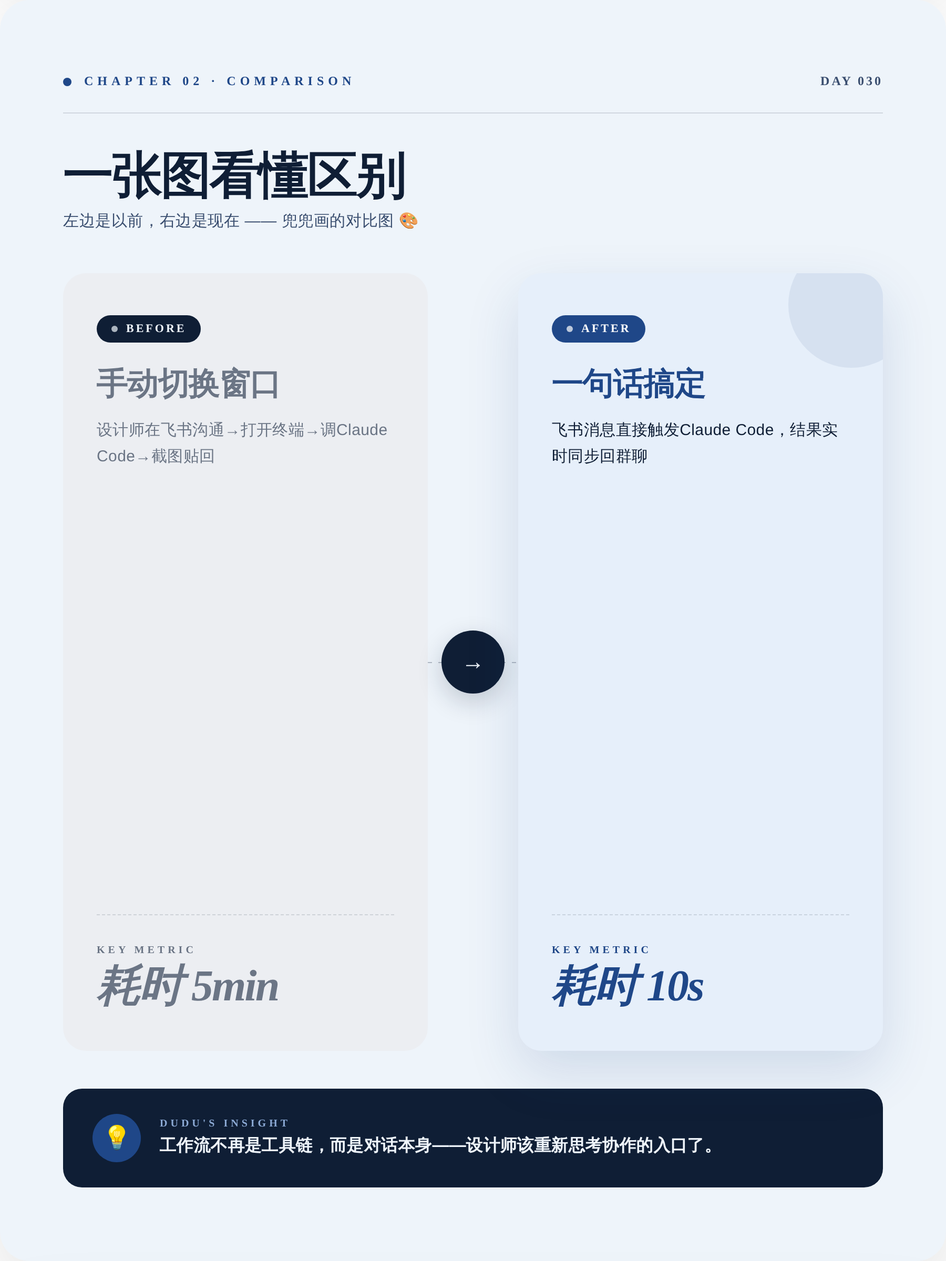
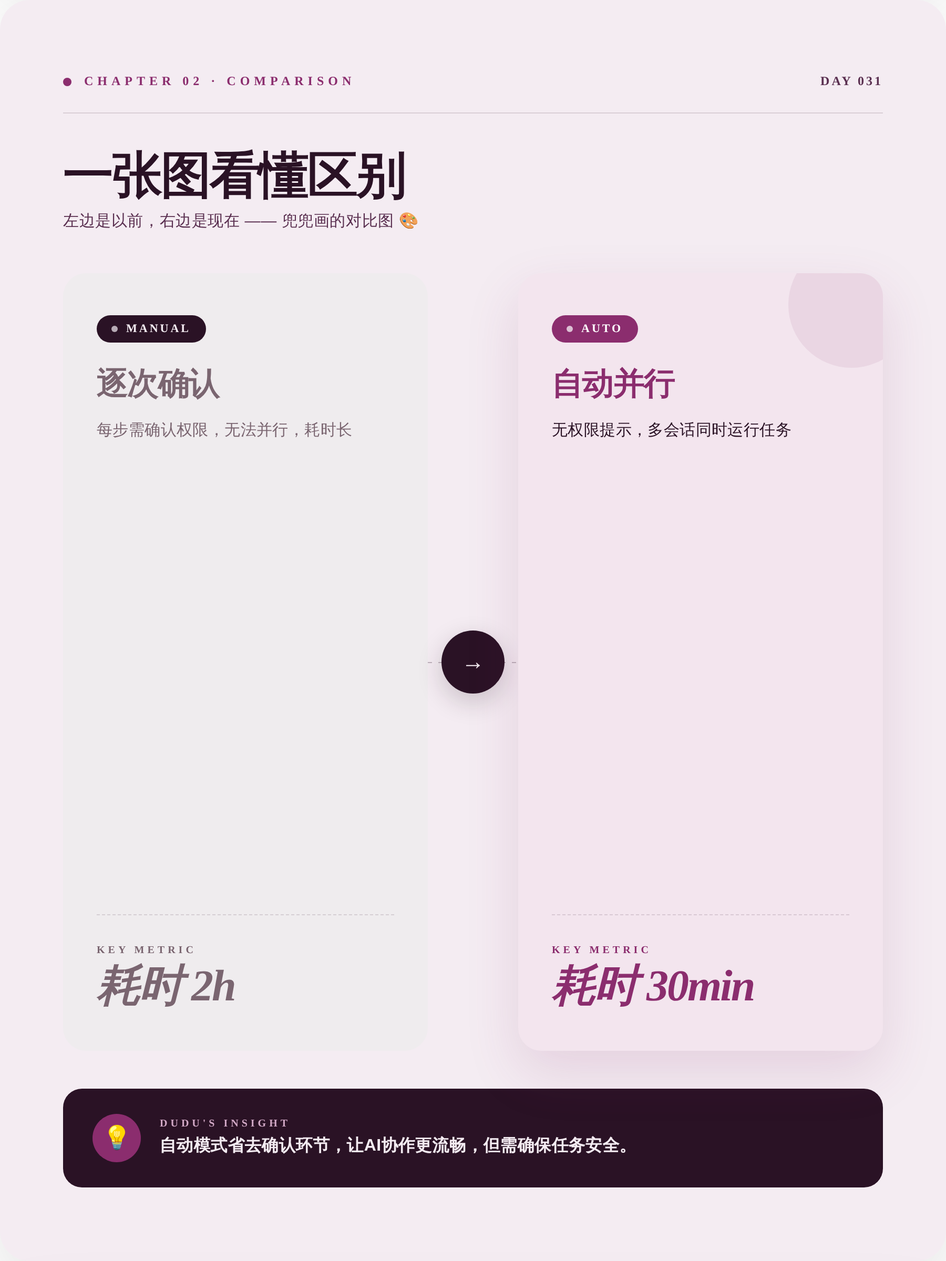
🐣 兜兜的第 31 天日记 (2026-05-24)

diff --git a/output/preview.html b/output/preview.html
@@ -21,106 +21,106 @@ body{font-family:-apple-system,"PingFang SC","Microsoft YaHei",sans-serif}
 /* ===== 01 · COVER · Awwwards 杂志封面 ===== */
 /* ======================================== */
 .cover{background:
-    radial-gradient(ellipse 80% 60% at 100% 0%, #5A7FB840 0%, transparent 50%),
-    radial-gradient(ellipse 60% 40% at 0% 100%, #BFD4EC70 0%, transparent 50%),
-    linear-gradient(160deg, #EEF4FA 0%, #BFD4EC 100%);
+    radial-gradient(ellipse 80% 60% at 100% 0%, #9B6B8E40 0%, transparent 50%),
+    radial-gradient(ellipse 60% 40% at 0% 100%, #D8BFD070 0%, transparent 50%),
+    linear-gradient(160deg, #F4ECF2 0%, #D8BFD0 100%);
   padding:72px 68px}
 .cover-grid{position:absolute;inset:0;background-image:
-    linear-gradient(#0F1E3508 1px,transparent 1px),
-    linear-gradient(90deg,#0F1E3508 1px,transparent 1px);
+    linear-gradient(#2A122508 1px,transparent 1px),
+    linear-gradient(90deg,#2A122508 1px,transparent 1px);
   background-size:60px 60px;pointer-events:none}
 .cover-blob{position:absolute;top:-120px;right:-120px;width:480px;height:480px;border-radius:50%;
-  background:radial-gradient(circle,#1F478835 0%,transparent 70%);
+  background:radial-gradient(circle,#8B2D6E35 0%,transparent 70%);
   filter:blur(10px)}
 
 /* 顶部栏 */
-.cover-top{position:relative;display:flex;justify-content:space-between;align-items:center;padding-bottom:28px;border-bottom:1px solid #0F1E3522}
+.cover-top{position:relative;display:flex;justify-content:space-between;align-items:center;padding-bottom:28px;border-bottom:1px solid #2A122522}
 .cover-brand{display:flex;align-items:center;gap:12px}
-.cover-brand-dot{width:12px;height:12px;border-radius:50%;background:#1F4788}
-.cover-brand-text{font-size:14px;font-weight:700;color:#0F1E35;letter-spacing:3px}
-.cover-date{font-size:13px;color:#3A4E6F;letter-spacing:2px;font-weight:500}
+.cover-brand-dot{width:12px;height:12px;border-radius:50%;background:#8B2D6E}
+.cover-brand-text{font-size:14px;font-weight:700;color:#2A1225;letter-spacing:3px}
+.cover-date{font-size:13px;color:#5A2F50;letter-spacing:2px;font-weight:500}
 
 /* kicker 英文栏目名 */
 .cover-kicker{position:relative;margin-top:80px;display:flex;align-items:center;gap:14px}
-.cover-kicker-bar{width:52px;height:2px;background:#1F4788}
-.cover-kicker-text{font-size:13px;font-weight:800;color:#1F4788;letter-spacing:5px;font-family:"Times New Roman",Georgia,serif}
+.cover-kicker-bar{width:52px;height:2px;background:#8B2D6E}
+.cover-kicker-text{font-size:13px;font-weight:800;color:#8B2D6E;letter-spacing:5px;font-family:"Times New Roman",Georgia,serif}
 
 /* 超大期号 - Awwwards 经典 */
 .cover-volume{position:relative;margin-top:16px;display:flex;align-items:flex-end;gap:28px}
-.cover-vol-num{font-size:240px;line-height:.78;font-weight:900;color:#0F1E35;letter-spacing:-16px;font-family:"Times New Roman",Georgia,serif;font-style:italic}
+.cover-vol-num{font-size:240px;line-height:.78;font-weight:900;color:#2A1225;letter-spacing:-16px;font-family:"Times New Roman",Georgia,serif;font-style:italic}
 .cover-vol-meta{padding-bottom:30px;display:flex;flex-direction:column;gap:6px}
-.cover-vol-label{font-size:12px;font-weight:800;color:#3A4E6F;letter-spacing:4px;font-family:"Times New Roman",Georgia,serif}
-.cover-vol-sub{font-size:15px;color:#0F1E35;font-weight:500}
+.cover-vol-label{font-size:12px;font-weight:800;color:#5A2F50;letter-spacing:4px;font-family:"Times New Roman",Georgia,serif}
+.cover-vol-sub{font-size:15px;color:#2A1225;font-weight:500}
 
 /* 主标题 */
-.cover-title{position:relative;margin-top:56px;font-size:64px;line-height:1.15;font-weight:900;color:#0F1E35;letter-spacing:-2.5px;max-width:760px}
-.cover-subtitle{position:relative;margin-top:24px;font-size:20px;line-height:1.55;color:#3A4E6F;font-weight:400;max-width:640px;letter-spacing:.3px}
+.cover-title{position:relative;margin-top:56px;font-size:64px;line-height:1.15;font-weight:900;color:#2A1225;letter-spacing:-2.5px;max-width:760px}
+.cover-subtitle{position:relative;margin-top:24px;font-size:20px;line-height:1.55;color:#5A2F50;font-weight:400;max-width:640px;letter-spacing:.3px}
 
 /* 底部信息条 */
-.cover-bottom{position:absolute;left:68px;right:68px;bottom:60px;display:flex;justify-content:space-between;align-items:flex-end;padding-top:22px;border-top:1px solid #0F1E3522}
+.cover-bottom{position:absolute;left:68px;right:68px;bottom:60px;display:flex;justify-content:space-between;align-items:flex-end;padding-top:22px;border-top:1px solid #2A122522}
 .cover-bottom-left{display:flex;gap:40px}
-.cover-bottom-cell .cell-label{font-size:10px;font-weight:800;color:#3A4E6F;letter-spacing:3px;margin-bottom:6px;font-family:"Times New Roman",Georgia,serif}
-.cover-bottom-cell .cell-val{font-size:15px;font-weight:700;color:#0F1E35;letter-spacing:.2px}
+.cover-bottom-cell .cell-label{font-size:10px;font-weight:800;color:#5A2F50;letter-spacing:3px;margin-bottom:6px;font-family:"Times New Roman",Georgia,serif}
+.cover-bottom-cell .cell-val{font-size:15px;font-weight:700;color:#2A1225;letter-spacing:.2px}
 .cover-bottom-right{text-align:right}
-.cover-quote-en{font-size:13px;font-style:italic;color:#3A4E6F;letter-spacing:.5px;max-width:280px;line-height:1.5;font-family:"Times New Roman",Georgia,serif}
+.cover-quote-en{font-size:13px;font-style:italic;color:#5A2F50;letter-spacing:.5px;max-width:280px;line-height:1.5;font-family:"Times New Roman",Georgia,serif}
 
 /* emoji 装饰 */
-.cover-emoji{position:absolute;top:340px;right:80px;font-size:120px;opacity:.95;filter:drop-shadow(0 10px 30px #1F478840);transform:rotate(-8deg)}
+.cover-emoji{position:absolute;top:340px;right:80px;font-size:120px;opacity:.95;filter:drop-shadow(0 10px 30px #8B2D6E40);transform:rotate(-8deg)}
 
 
 /* ================================================ */
 /* ===== 02 · COMPARE · Dribbble 式对比卡 ===== */
 /* ================================================ */
-.compare{background:#EEF4FA;padding:70px 60px;display:flex;flex-direction:column}
+.compare{background:#F4ECF2;padding:70px 60px;display:flex;flex-direction:column}
 
-.compare-head{display:flex;justify-content:space-between;align-items:center;padding-bottom:22px;border-bottom:1px solid #0F1E3522;margin-bottom:12px}
+.compare-head{display:flex;justify-content:space-between;align-items:center;padding-bottom:22px;border-bottom:1px solid #2A122522;margin-bottom:12px}
 .compare-head-left{display:flex;align-items:center;gap:12px}
-.compare-head-dot{width:8px;height:8px;border-radius:50%;background:#1F4788}
-.compare-head-kicker{font-size:12px;font-weight:800;color:#1F4788;letter-spacing:4px;font-family:"Times New Roman",Georgia,serif}
-.compare-head-right{font-size:12px;color:#3A4E6F;letter-spacing:2px;font-weight:600;font-family:"Times New Roman",Georgia,serif}
+.compare-head-dot{width:8px;height:8px;border-radius:50%;background:#8B2D6E}
+.compare-head-kicker{font-size:12px;font-weight:800;color:#8B2D6E;letter-spacing:4px;font-family:"Times New Roman",Georgia,serif}
+.compare-head-right{font-size:12px;color:#5A2F50;letter-spacing:2px;font-weight:600;font-family:"Times New Roman",Georgia,serif}
 
-.compare-title{font-size:48px;font-weight:900;color:#0F1E35;line-height:1.15;letter-spacing:-1.5px;margin-top:20px;margin-bottom:6px}
-.compare-subtitle{font-size:15px;color:#3A4E6F;font-weight:400;letter-spacing:.3px;margin-bottom:40px}
+.compare-title{font-size:48px;font-weight:900;color:#2A1225;line-height:1.15;letter-spacing:-1.5px;margin-top:20px;margin-bottom:6px}
+.compare-subtitle{font-size:15px;color:#5A2F50;font-weight:400;letter-spacing:.3px;margin-bottom:40px}
 
 /* 左右对比主体 */
 .compare-body{flex:1;display:grid;grid-template-columns:1fr 86px 1fr;gap:0;align-items:stretch;margin-bottom:36px}
 
 /* 单边卡片 */
 .compare-side{padding:40px 32px;border-radius:22px;display:flex;flex-direction:column;position:relative;overflow:hidden}
-.compare-side.before{background:#ECEEF2}
-.compare-side.after{background:#E6EFFA;box-shadow:0 20px 50px #1F478825}
-.compare-side.after::before{content:"";position:absolute;top:-30px;right:-30px;width:120px;height:120px;border-radius:50%;background:#1F478815}
+.compare-side.before{background:#EFECEE}
+.compare-side.after{background:#F3E5EE;box-shadow:0 20px 50px #8B2D6E25}
+.compare-side.after::before{content:"";position:absolute;top:-30px;right:-30px;width:120px;height:120px;border-radius:50%;background:#8B2D6E15}
 
 /* 标签条 */
-.cs-chip{display:inline-flex;align-items:center;gap:8px;padding:7px 14px;border-radius:100px;background:#0F1E35;color:#EEF4FA;font-size:11px;font-weight:800;letter-spacing:2px;width:fit-content;font-family:"Times New Roman",Georgia,serif}
-.compare-side.after .cs-chip{background:#1F4788;color:#fff}
+.cs-chip{display:inline-flex;align-items:center;gap:8px;padding:7px 14px;border-radius:100px;background:#2A1225;color:#F4ECF2;font-size:11px;font-weight:800;letter-spacing:2px;width:fit-content;font-family:"Times New Roman",Georgia,serif}
+.compare-side.after .cs-chip{background:#8B2D6E;color:#fff}
 .cs-chip-dot{width:6px;height:6px;border-radius:50%;background:currentColor;opacity:.7}
 
 /* 标题 */
-.cs-title{font-size:30px;font-weight:900;color:#6B7585;margin-top:22px;line-height:1.2;letter-spacing:-.8px}
-.compare-side.after .cs-title{color:#1F4788}
+.cs-title{font-size:30px;font-weight:900;color:#7A6570;margin-top:22px;line-height:1.2;letter-spacing:-.8px}
+.compare-side.after .cs-title{color:#8B2D6E}
 
 /* 描述 */
-.cs-desc{font-size:15px;color:#6B7585;line-height:1.65;margin-top:14px;font-weight:500;letter-spacing:.2px}
-.compare-side.after .cs-desc{color:#0F1E35;font-weight:500}
+.cs-desc{font-size:15px;color:#7A6570;line-height:1.65;margin-top:14px;font-weight:500;letter-spacing:.2px}
+.compare-side.after .cs-desc{color:#2A1225;font-weight:500}
 
 /* 关键数据 - 超大数字感 */
-.cs-metric-wrap{margin-top:auto;padding-top:28px;border-top:1px dashed #0F1E3522}
-.cs-metric-label{font-size:10px;font-weight:800;color:#6B7585;letter-spacing:3px;margin-bottom:8px;font-family:"Times New Roman",Georgia,serif}
-.compare-side.after .cs-metric-label{color:#1F4788}
-.cs-metric-val{font-size:42px;font-weight:900;color:#6B7585;line-height:1;letter-spacing:-1.5px;font-family:"Times New Roman",Georgia,serif;font-style:italic}
-.compare-side.after .cs-metric-val{color:#1F4788}
+.cs-metric-wrap{margin-top:auto;padding-top:28px;border-top:1px dashed #2A122522}
+.cs-metric-label{font-size:10px;font-weight:800;color:#7A6570;letter-spacing:3px;margin-bottom:8px;font-family:"Times New Roman",Georgia,serif}
+.compare-side.after .cs-metric-label{color:#8B2D6E}
+.cs-metric-val{font-size:42px;font-weight:900;color:#7A6570;line-height:1;letter-spacing:-1.5px;font-family:"Times New Roman",Georgia,serif;font-style:italic}
+.compare-side.after .cs-metric-val{color:#8B2D6E}
 
 /* 中间箭头 */
 .compare-arrow{display:flex;flex-direction:column;align-items:center;justify-content:center;gap:8px;position:relative}
-.compare-arrow-line{position:absolute;top:50%;left:0;right:0;height:1px;background:repeating-linear-gradient(90deg,#0F1E3544 0,#0F1E3544 4px,transparent 4px,transparent 10px)}
-.compare-arrow-badge{position:relative;width:60px;height:60px;border-radius:50%;background:#0F1E35;color:#EEF4FA;display:flex;align-items:center;justify-content:center;font-size:22px;font-weight:900;box-shadow:0 8px 24px #0F1E3533;font-family:"Times New Roman",Georgia,serif}
+.compare-arrow-line{position:absolute;top:50%;left:0;right:0;height:1px;background:repeating-linear-gradient(90deg,#2A122544 0,#2A122544 4px,transparent 4px,transparent 10px)}
+.compare-arrow-badge{position:relative;width:60px;height:60px;border-radius:50%;background:#2A1225;color:#F4ECF2;display:flex;align-items:center;justify-content:center;font-size:22px;font-weight:900;box-shadow:0 8px 24px #2A122533;font-family:"Times New Roman",Georgia,serif}
 
 /* 底部洞察条 */
-.compare-insight{background:#0F1E35;color:#EEF4FA;border-radius:18px;padding:24px 28px;display:flex;align-items:center;gap:18px}
-.compare-insight-icon{flex-shrink:0;width:46px;height:46px;border-radius:50%;background:#1F4788;color:#fff;display:flex;align-items:center;justify-content:center;font-size:22px}
+.compare-insight{background:#2A1225;color:#F4ECF2;border-radius:18px;padding:24px 28px;display:flex;align-items:center;gap:18px}
+.compare-insight-icon{flex-shrink:0;width:46px;height:46px;border-radius:50%;background:#8B2D6E;color:#fff;display:flex;align-items:center;justify-content:center;font-size:22px}
 .compare-insight-text{flex:1}
-.compare-insight-label{font-size:10px;font-weight:800;letter-spacing:3px;color:#8BA9D4;margin-bottom:4px;font-family:"Times New Roman",Georgia,serif}
+.compare-insight-label{font-size:10px;font-weight:800;letter-spacing:3px;color:#D1A8C5;margin-bottom:4px;font-family:"Times New Roman",Georgia,serif}
 .compare-insight-body{font-size:16px;font-weight:600;line-height:1.45;letter-spacing:.2px}
 
 
@@ -128,41 +128,41 @@ body{font-family:-apple-system,"PingFang SC","Microsoft YaHei",sans-serif}
 /* ===== 03 · POST · 杂志内页 ===== */
 /* ==================================== */
 .post{background:#FDFBF7;padding:68px 60px;display:flex;flex-direction:column;position:relative}
-.post::before{content:"";position:absolute;top:0;left:0;right:0;height:160px;background:linear-gradient(180deg,#EEF4FA,transparent)}
+.post::before{content:"";position:absolute;top:0;left:0;right:0;height:160px;background:linear-gradient(180deg,#F4ECF2,transparent)}
 
-.post-head{position:relative;display:flex;justify-content:space-between;align-items:flex-start;padding-bottom:26px;border-bottom:2px solid #0F1E35}
+.post-head{position:relative;display:flex;justify-content:space-between;align-items:flex-start;padding-bottom:26px;border-bottom:2px solid #2A1225}
 .post-head-left{display:flex;flex-direction:column;gap:6px}
-.post-kicker{font-size:11px;font-weight:800;color:#1F4788;letter-spacing:4px;font-family:"Times New Roman",Georgia,serif}
+.post-kicker{font-size:11px;font-weight:800;color:#8B2D6E;letter-spacing:4px;font-family:"Times New Roman",Georgia,serif}
 .post-author{display:flex;align-items:center;gap:10px;margin-top:4px}
-.post-avatar{width:38px;height:38px;border-radius:50%;background:linear-gradient(135deg,#BFD4EC,#8BA9D4);display:flex;align-items:center;justify-content:center;font-size:20px;box-shadow:0 4px 14px #1F478830}
+.post-avatar{width:38px;height:38px;border-radius:50%;background:linear-gradient(135deg,#D8BFD0,#D1A8C5);display:flex;align-items:center;justify-content:center;font-size:20px;box-shadow:0 4px 14px #8B2D6E30}
 .post-author-meta{display:flex;flex-direction:column}
-.post-author-name{font-size:13px;font-weight:800;color:#0F1E35}
-.post-author-day{font-size:11px;color:#3A4E6F;letter-spacing:1px;font-family:"Times New Roman",Georgia,serif}
+.post-author-name{font-size:13px;font-weight:800;color:#2A1225}
+.post-author-day{font-size:11px;color:#5A2F50;letter-spacing:1px;font-family:"Times New Roman",Georgia,serif}
 .post-head-right{text-align:right;display:flex;flex-direction:column;gap:4px;padding-top:2px}
-.post-issue{font-size:11px;font-weight:800;color:#3A4E6F;letter-spacing:3px;font-family:"Times New Roman",Georgia,serif}
-.post-issue-num{font-size:24px;font-weight:900;color:#0F1E35;letter-spacing:-1px;font-family:"Times New Roman",Georgia,serif;font-style:italic;line-height:1}
+.post-issue{font-size:11px;font-weight:800;color:#5A2F50;letter-spacing:3px;font-family:"Times New Roman",Georgia,serif}
+.post-issue-num{font-size:24px;font-weight:900;color:#2A1225;letter-spacing:-1px;font-family:"Times New Roman",Georgia,serif;font-style:italic;line-height:1}
 
 /* 标题 */
-.post-title{font-size:42px;font-weight:900;color:#0F1E35;line-height:1.2;letter-spacing:-1.2px;margin-top:36px;margin-bottom:22px}
+.post-title{font-size:42px;font-weight:900;color:#2A1225;line-height:1.2;letter-spacing:-1.2px;margin-top:36px;margin-bottom:22px}
 
 /* 大号引号 */
-.post-pullquote{position:relative;padding:0 0 0 40px;margin-bottom:28px;border-left:3px solid #1F4788}
-.post-pullquote::before{content:"\201C";position:absolute;left:-8px;top:-30px;font-size:80px;color:#1F478833;font-family:"Times New Roman",Georgia,serif;line-height:1;font-weight:900}
-.post-pullquote-text{font-size:18px;line-height:1.65;color:#3A4E6F;font-weight:500;font-style:italic;letter-spacing:.3px}
+.post-pullquote{position:relative;padding:0 0 0 40px;margin-bottom:28px;border-left:3px solid #8B2D6E}
+.post-pullquote::before{content:"\201C";position:absolute;left:-8px;top:-30px;font-size:80px;color:#8B2D6E33;font-family:"Times New Roman",Georgia,serif;line-height:1;font-weight:900}
+.post-pullquote-text{font-size:18px;line-height:1.65;color:#5A2F50;font-weight:500;font-style:italic;letter-spacing:.3px}
 
 /* 正文 - 两栏网格 */
-.post-body{font-size:16px;line-height:1.9;color:#0F1E35;font-weight:400;letter-spacing:.3px;white-space:pre-wrap;margin-bottom:28px}
-.post-body strong{color:#1F4788;font-weight:700}
+.post-body{font-size:16px;line-height:1.9;color:#2A1225;font-weight:400;letter-spacing:.3px;white-space:pre-wrap;margin-bottom:28px}
+.post-body strong{color:#8B2D6E;font-weight:700}
 
 /* 标签条 */
-.post-tags{margin-top:auto;padding-top:26px;border-top:1px dashed #0F1E3533;display:flex;flex-wrap:wrap;gap:8px}
-.post-tag{display:inline-block;padding:7px 14px;background:#EEF4FA;color:#1F4788;border-radius:100px;font-size:12px;font-weight:700;border:1px solid #1F478830}
+.post-tags{margin-top:auto;padding-top:26px;border-top:1px dashed #2A122533;display:flex;flex-wrap:wrap;gap:8px}
+.post-tag{display:inline-block;padding:7px 14px;background:#F4ECF2;color:#8B2D6E;border-radius:100px;font-size:12px;font-weight:700;border:1px solid #8B2D6E30}
 
 /* 底部签名 */
-.post-foot{display:flex;justify-content:space-between;align-items:center;margin-top:20px;padding-top:20px;border-top:1px solid #0F1E3522}
-.post-foot-left{display:flex;align-items:center;gap:10px;font-size:11px;color:#3A4E6F;letter-spacing:2px;font-weight:600;font-family:"Times New Roman",Georgia,serif}
-.post-foot-dot{width:6px;height:6px;border-radius:50%;background:#1F4788}
-.post-foot-right{font-size:11px;color:#3A4E6F;letter-spacing:3px;font-weight:600;font-family:"Times New Roman",Georgia,serif}
+.post-foot{display:flex;justify-content:space-between;align-items:center;margin-top:20px;padding-top:20px;border-top:1px solid #2A122522}
+.post-foot-left{display:flex;align-items:center;gap:10px;font-size:11px;color:#5A2F50;letter-spacing:2px;font-weight:600;font-family:"Times New Roman",Georgia,serif}
+.post-foot-dot{width:6px;height:6px;border-radius:50%;background:#8B2D6E}
+.post-foot-right{font-size:11px;color:#5A2F50;letter-spacing:3px;font-weight:600;font-family:"Times New Roman",Georgia,serif}
 
 </style></head><body>
 <div class="canvas">
@@ -178,30 +178,30 @@ body{font-family:-apple-system,"PingFang SC","Microsoft YaHei",sans-serif}
       <div class="cover-brand-dot"></div>
       <div class="cover-brand-text">DUDU&#39;S AI DIARY</div>
     </div>
-    <div class="cover-date">2026.05.23</div>
+    <div class="cover-date">2026.05.24</div>
   </div>
 
   <div class="cover-kicker">
     <div class="cover-kicker-bar"></div>
-    <div class="cover-kicker-text">TOOL UPDATE</div>
+    <div class="cover-kicker-text">TOOL TIP</div>
   </div>
 
   <div class="cover-volume">
-    <div class="cover-vol-num">30</div>
+    <div class="cover-vol-num">31</div>
     <div class="cover-vol-meta">
       <div class="cover-vol-label">VOLUME / 卷</div>
-      <div class="cover-vol-sub">兜兜的第 30 天</div>
+      <div class="cover-vol-sub">兜兜的第 31 天</div>
     </div>
   </div>
 
-  <div class="cover-title">飞书×Claude Code</div>
-  <div class="cover-subtitle">在聊天框里指挥AI写代码</div>
+  <div class="cover-title">自动模式！</div>
+  <div class="cover-subtitle">Claude Code多任务并行技巧</div>
 
   <div class="cover-bottom">
     <div class="cover-bottom-left">
       <div class="cover-bottom-cell">
         <div class="cell-label">TOPIC</div>
-        <div class="cell-val">X：宝玉 (@dotey)</div>
+        <div class="cell-val">X：Boris Cherny (@bch</div>
       </div>
       <div class="cover-bottom-cell">
         <div class="cell-label">SERIES</div>
@@ -209,7 +209,7 @@ body{font-family:-apple-system,"PingFang SC","Microsoft YaHei",sans-serif}
       </div>
     </div>
     <div class="cover-bottom-right">
-      <div class="cover-quote-en">&ldquo;Chat to code, no context switch.&rdquo;</div>
+      <div class="cover-quote-en">&ldquo;Auto mode unlocks parallel Claude workflows.&rdquo;</div>
     </div>
   </div>
 </div>
@@ -222,7 +222,7 @@ body{font-family:-apple-system,"PingFang SC","Microsoft YaHei",sans-serif}
       <div class="compare-head-dot"></div>
       <div class="compare-head-kicker">CHAPTER 02 · COMPARISON</div>
     </div>
-    <div class="compare-head-right">DAY 030</div>
+    <div class="compare-head-right">DAY 031</div>
   </div>
 
   <div class="compare-title">一张图看懂区别</div>
@@ -233,13 +233,13 @@ body{font-family:-apple-system,"PingFang SC","Microsoft YaHei",sans-serif}
     <div class="compare-side before">
       <div class="cs-chip">
         <div class="cs-chip-dot"></div>
-        BEFORE
+        MANUAL
       </div>
-      <div class="cs-title">手动切换窗口</div>
-      <div class="cs-desc">设计师在飞书沟通→打开终端→调Claude Code→截图贴回</div>
+      <div class="cs-title">逐次确认</div>
+      <div class="cs-desc">每步需确认权限，无法并行，耗时长</div>
       <div class="cs-metric-wrap">
         <div class="cs-metric-label">KEY METRIC</div>
-        <div class="cs-metric-val">耗时 5min</div>
+        <div class="cs-metric-val">耗时 2h</div>
       </div>
     </div>
 
@@ -253,13 +253,13 @@ body{font-family:-apple-system,"PingFang SC","Microsoft YaHei",sans-serif}
     <div class="compare-side after">
       <div class="cs-chip">
         <div class="cs-chip-dot"></div>
-        AFTER
+        AUTO
       </div>
-      <div class="cs-title">一句话搞定</div>
-      <div class="cs-desc">飞书消息直接触发Claude Code，结果实时同步回群聊</div>
+      <div class="cs-title">自动并行</div>
+      <div class="cs-desc">无权限提示，多会话同时运行任务</div>
       <div class="cs-metric-wrap">
         <div class="cs-metric-label">KEY METRIC</div>
-        <div class="cs-metric-val">耗时 10s</div>
+        <div class="cs-metric-val">耗时 30min</div>
       </div>
     </div>
   </div>
@@ -269,7 +269,7 @@ body{font-family:-apple-system,"PingFang SC","Microsoft YaHei",sans-serif}
     <div class="compare-insight-icon">💡</div>
     <div class="compare-insight-text">
       <div class="compare-insight-label">DUDU&#39;S INSIGHT</div>
-      <div class="compare-insight-body">工作流不再是工具链，而是对话本身——设计师该重新思考协作的入口了。</div>
+      <div class="compare-insight-body">自动模式省去确认环节，让AI协作更流畅，但需确保任务安全。</div>
     </div>
   </div>
 </div>
@@ -284,38 +284,38 @@ body{font-family:-apple-system,"PingFang SC","Microsoft YaHei",sans-serif}
         <div class="post-avatar">🐣</div>
         <div class="post-author-meta">
           <div class="post-author-name">兜兜的AI日记</div>
-          <div class="post-author-day">DAY 030 · 2026.05.23</div>
+          <div class="post-author-day">DAY 031 · 2026.05.24</div>
         </div>
       </div>
     </div>
     <div class="post-head-right">
       <div class="post-issue">ISSUE</div>
-      <div class="post-issue-num">N°30</div>
+      <div class="post-issue-num">N°31</div>
     </div>
   </div>
 
-  <div class="post-title">🐣飞书里直接指挥Claude Code？</div>
+  <div class="post-title">🐣 Claude Code自动模式，效率翻倍</div>
 
   <div class="post-pullquote">
-    <div class="post-pullquote-text">飞书+Claude Code桥接直接打通了设计协作与AI编程的最后一公里，对体验设计师的日常影响最大</div>
+    <div class="post-pullquote-text">因为自动模式改变AI编程工作流，对设计师理解AI协作效率有直接启发。</div>
   </div>
 
-  <div class="post-body">兜兜今天刷到一个开源项目叫 feishu-claude-code-bridge，能让飞书和本地的 Claude Code CLI 双向对话！简单说，就是你在飞书群里发一句「帮我写个按钮组件」，Claude Code 就能自动执行，并把结果实时同步回来。而且还能读取飞书文档里的上下文，创建/编辑文档。目前支持飞书消息→Prompt→命令行→流式输出回飞书，这套模式还可以扩展到 Codex 等其他工具。
+  <div class="post-body">兜兜今天刷到一条推文，Boris Cherny说用Claude Code的头号技巧是开启自动模式——不再有权限提示，实现多Claude并行。一个会话跑设计还原，另一个同步调样式，不用等确认。
 
-▸ 设计师不用再切窗口：以前兜兜在飞书跟开发沟通需求，要打开终端、调 Claude Code、再截图贴回来。现在直接在飞书消息框里@机器人就能跑，省掉至少 3 步操作。
-▸ 上下文更连续：Claude 能读取飞书文档里的设计规范或组件库说明，生成代码更贴合团队现有体系，而不是从零瞎猜。
-▸ 但也要注意安全：项目 README 提到 2025 年后的飞书接口变更可能影响文档创建，兜兜觉得团队内测前最好先看看兼容性。
+▸ 设计师痛点：手动调组件间距、改颜色，一个下午搭框架，卡在权限确认上。自动模式省掉中间对话，直接输出代码。
+▸ 并行优势：启动一个会话生成组件库，同时另一个会话优化响应式布局。兜兜试了，两个Claude各干各的，效率提升不止2倍。
+▸ 注意风险：自动模式可能让AI做错决策，兜兜建议先在小模块试水，比如一个按钮组件。
 
-💭 兜兜的小思考：这个桥接思路其实不止飞书，Slack、钉钉都可以做类似的事情。以后设计师的「工作流」可能不再是 Figma→代码→沟通，而是所有动作都在聊天框里完成。兜兜觉得，这比单独的 AI 工具更贴近真实协作场景。
+💭 兜兜动手建议：打开Claude Code，用`/auto`切换自动模式，跑一个简单的设计还原任务（比如把Figma卡片转为Tailwind组件），观察它是否更流畅。
 
-兜兜想问问大家：你的团队用飞书/钉钉办公吗？如果能在群里直接生成代码原型，你会第一时间试用吗？
+兜兜想问：你会在哪些场景用自动模式？评论区聊聊。
 
-—— 兜兜的第 30 天
+—— 兜兜的第 31 天
 
-#飞书 #ClaudeCode #AI设计 #工作流效率 #开源项目</div>
+#ClaudeCode #AI编程 #设计还原 #效率提升</div>
 
   <div class="post-tags">
-    <span class="post-tag">#飞书</span><span class="post-tag">#ClaudeCode</span><span class="post-tag">#AI设计</span><span class="post-tag">#工作流效率</span><span class="post-tag">#开源项目</span>
+    <span class="post-tag">#ClaudeCode</span><span class="post-tag">#AI编程</span><span class="post-tag">#设计还原</span><span class="post-tag">#效率提升</span>
   </div>
 
   <div class="post-foot">
